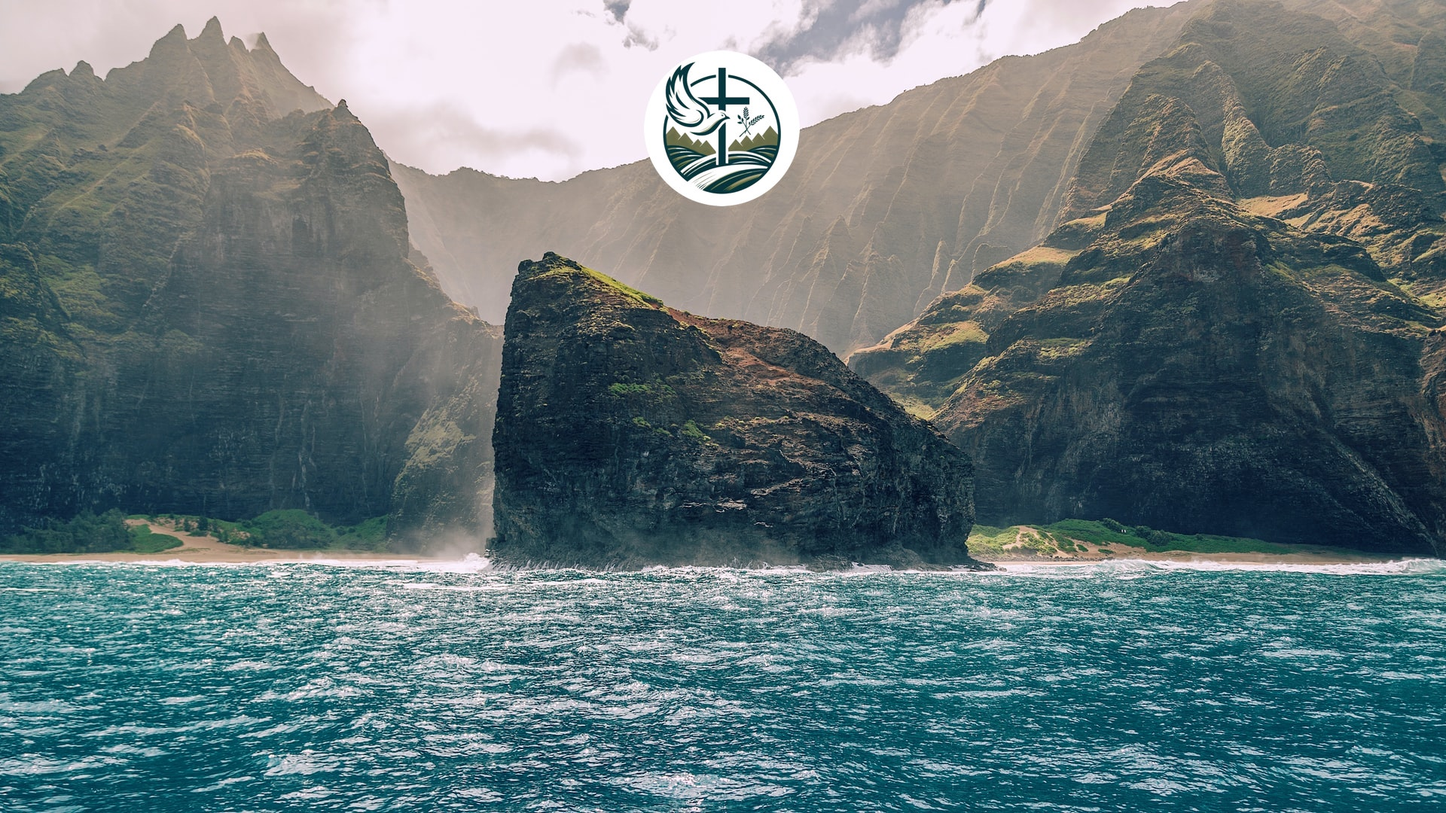
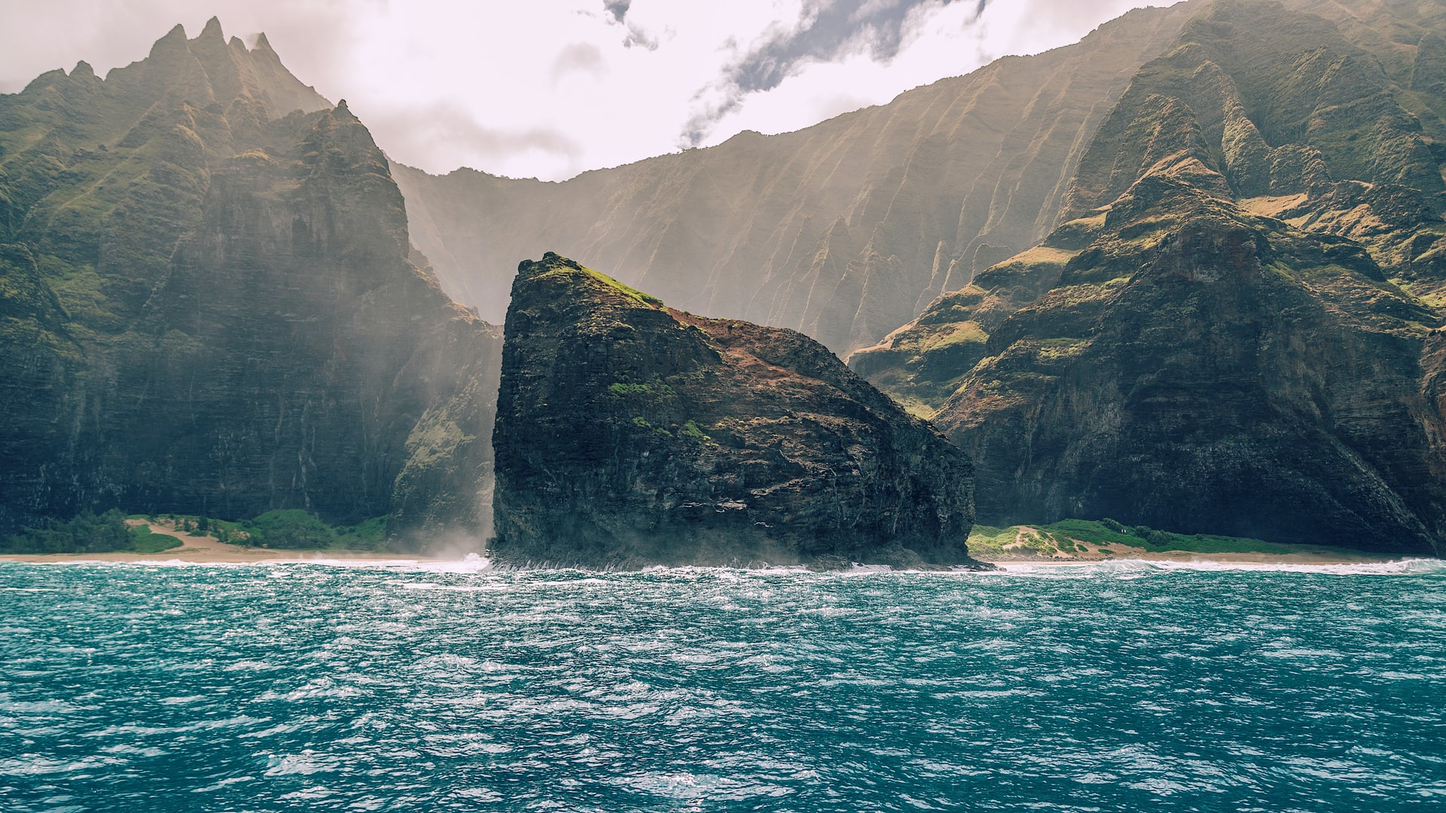
add videos

Changed region(s): [[0.4375, 0.0611, 0.5625, 0.275]]

diff --git a/src/components/HeroSection.css b/src/components/HeroSection.css
@@ -3,10 +3,17 @@
     width: 100%;
     display: flex;
     flex-direction: column;
-    justify-content: center;
+    justify-content:first baseline;
     align-items: center;
     /* box-shadow: inset 0 0 0 1000px rgba(0, 0, 0, 0.2); */
     object-fit: contain;
+}
+
+.hero-container > img {
+  width: 250px;
+  height: 250px;
+  margin-top: 4%;
+  margin-bottom: 4%;
 }
   
   .hero-container > h1 {
@@ -48,6 +55,7 @@
       font-size: 500%;
       margin-top: 10%;
     }
+    
   }
   
   @media screen and (max-width: 768px) {
@@ -73,6 +81,13 @@
     .btn {
       width: 100%;
     }
+
+    .hero-container > img {
+      width: 200px;
+      height: 200px;
+      margin-top: 10%;
+      margin-bottom: 4%;
+    }
   }
 
   @media only screen and (max-width: 375px) {
@@ -87,5 +102,12 @@
 
     .hero-container > .chapter {
       font-size: 80%;
+    }
+
+    .hero-container > img {
+      width: 150px;
+      height: 150px;
+      margin-top: 10%;
+      margin-bottom: 4%;
     }
   }

diff --git a/src/components/Footer.js b/src/components/Footer.js
@@ -49,7 +49,7 @@ function Footer() {
           <div class='footer-logo'>
             <Link to='/' className='social-logo'>
               GREENFIELDS
-              <img src={`${process.env.PUBLIC_URL}/images/footerlogo.png`} width="50" height="50" style={{marginLeft:10}}/> 
+              <img src={`${process.env.PUBLIC_URL}/images/logo.png`} width="50" height="50" style={{marginLeft:10}}/> 
             </Link>
           </div>
           <small class='website-rights'>GREENFIELDS COMMUNITY CHURCH © 2024</small>

diff --git a/src/components/HeroSection.js b/src/components/HeroSection.js
@@ -6,6 +6,7 @@ import './HeroSection.css';
 function HeroSection() {
   return (
     <div className='hero-container' style={{ backgroundImage: `url(${process.env.PUBLIC_URL + '/images/home.jpg'})`, backgroundPosition: 'center', backgroundSize: 'cover', backgroundRepeat: 'no-repeat' }}>
+      <img src={`${process.env.PUBLIC_URL}/images/logo.png`} /> 
       <h1>Making a difference</h1>
       <p>WHEREVER THE RIVER GOES, IT BRINGS LIFE</p>
       <p className='chapter'>EZEKIEL 47:9</p>
